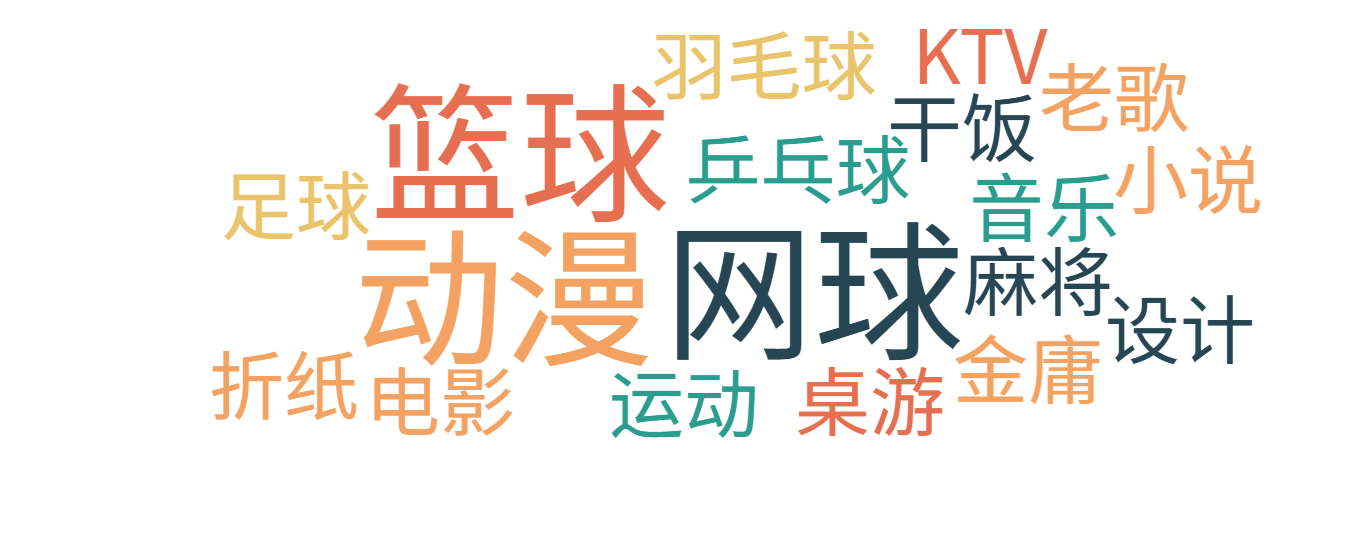
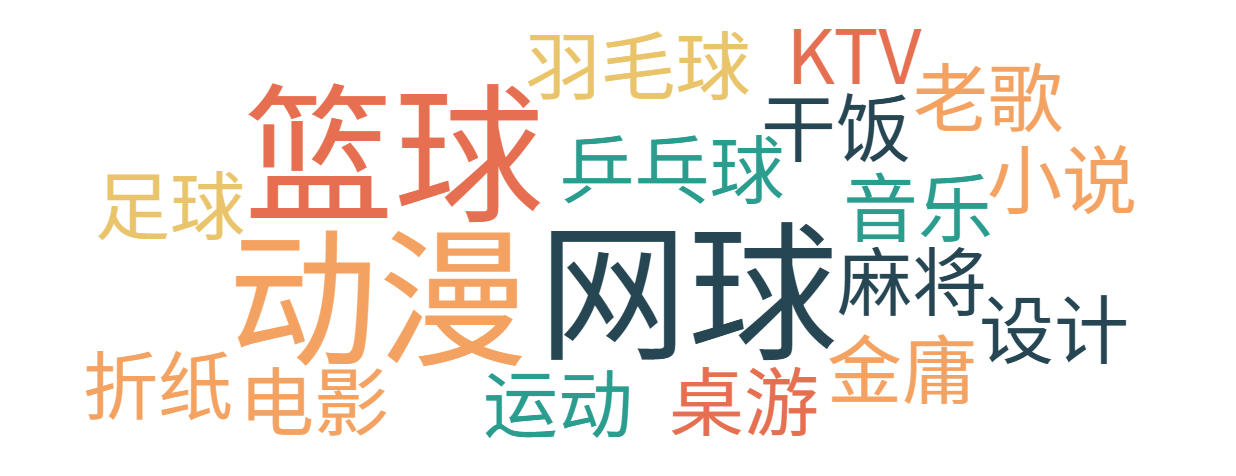
更新了对项目版本的追踪

Changed region(s): [[0.0615, 0.0294, 0.9223, 0.9412]]

diff --git a/index.html b/index.html
@@ -7,6 +7,16 @@
     <link rel="stylesheet" href="css/style.css">
     <link rel="stylesheet" href="https://cdnjs.cloudflare.com/ajax/libs/font-awesome/6.4.0/css/all.min.css">
     <link href="https://fonts.googleapis.com/css2?family=Noto+Sans+SC:wght@300;400;500;700&display=swap" rel="stylesheet">
+    
+    <!-- Google tag (gtag.js) -->
+    <script async src="https://www.googletagmanager.com/gtag/js?id=G-KVX34E0R5J"></script>
+    <script>
+      window.dataLayer = window.dataLayer || [];
+      function gtag(){dataLayer.push(arguments);}
+      gtag('js', new Date());
+    
+      gtag('config', 'G-KVX34E0R5J');
+    </script>
 </head>
 <body>
     <div class="background-decoration"></div>
@@ -39,7 +49,10 @@
                 <div class="project-card">
                     <div class="card-header">
                         <h3>POJPaw </h3> 
-                        <span class="badge">Chrome Extension</span>
+                        <div style="display: flex;gap: 8px;flex-wrap: wrap;justify-content: flex-end;">
+                            <span class="badge" style="background: rgba(0, 0, 0, 0.05); color: #546e7a;">V1.0.0</span>
+                            <span class="badge">Chrome Extension</span>
+                        </div>
                     </div>
                     <div class="card-body">
                         <p>POJPaw 是一个专为 OpenJudge 平台设计的 AI 编程学习助手 Chrome 扩展。<a href="./handbook.pdf" download="handbook.pdf" target="_blank" class="handbook-link">
@@ -92,59 +105,16 @@
     </footer>
 
     <script>
-        // Google Analytics 4 配置 (来自你的 background.js)
-        const GA_ENDPOINT = 'https://www.google-analytics.com/mp/collect';
-        const GA_MEASUREMENT_ID = 'G-KVX34E0R5J'; 
-        const GA_API_SECRET = 'Uf8UWKvESna2dkZjXjVk9A'; 
-
-        // 获取或生成客户端 ID (使用 localStorage 替代 chrome.storage)
-        function getClientId() {
-            let clientId = localStorage.getItem('bytemate_client_id');
-            if (!clientId) {
-                clientId = crypto.randomUUID();
-                localStorage.setItem('bytemate_client_id', clientId);
-            }
-            return clientId;
-        }
-
-        // 发送遥测事件
-        async function sendTelemetryEvent(eventName, params = {}) {
-            try {
-                const clientId = getClientId();
-                const payload = {
-                    client_id: clientId,
-                    events: [{
-                        name: eventName,
-                        params: {
-                            ...params,
-                            session_id: Date.now().toString(),
-                            engagement_time_msec: 100
-                        }
-                    }]
-                };
-
-                // 使用 fetch 直接发送请求到 GA4
-                await fetch(`${GA_ENDPOINT}?measurement_id=${GA_MEASUREMENT_ID}&api_secret=${GA_API_SECRET}`, {
-                    method: 'POST',
-                    body: JSON.stringify(payload)
-                });
-                console.log(`[Telemetry] Sent event: ${eventName}`, params);
-            } catch (error) {
-                console.warn('[Telemetry] Failed to send event:', error);
-            }
-        }
-
         document.addEventListener('DOMContentLoaded', function() {
             // 监听下载事件
             const downloadLinks = document.querySelectorAll('a[download]');
             downloadLinks.forEach(link => {
                 link.addEventListener('click', function() {
                     const filename = this.getAttribute('download');
-                    // 直接调用发送函数
-                    sendTelemetryEvent('download_item', {
-                        filename: filename || 'unknown',
-                        timestamp: Date.now(),
-                        source: 'website_click'
+                    // 使用 gtag 发送事件
+                    gtag('event', 'download_item', {
+                        'filename': filename || 'unknown',
+                        'source': 'website_click'
                     });
                 });
             });
@@ -154,10 +124,9 @@
             githubLinks.forEach(link => {
                 link.addEventListener('click', function() {
                     const url = this.getAttribute('href');
-                    sendTelemetryEvent('github_visit', {
-                        url: url,
-                        timestamp: Date.now(),
-                        source: 'website_click'
+                    gtag('event', 'github_visit', {
+                        'url': url,
+                        'source': 'website_click'
                     });
                 });
             });
